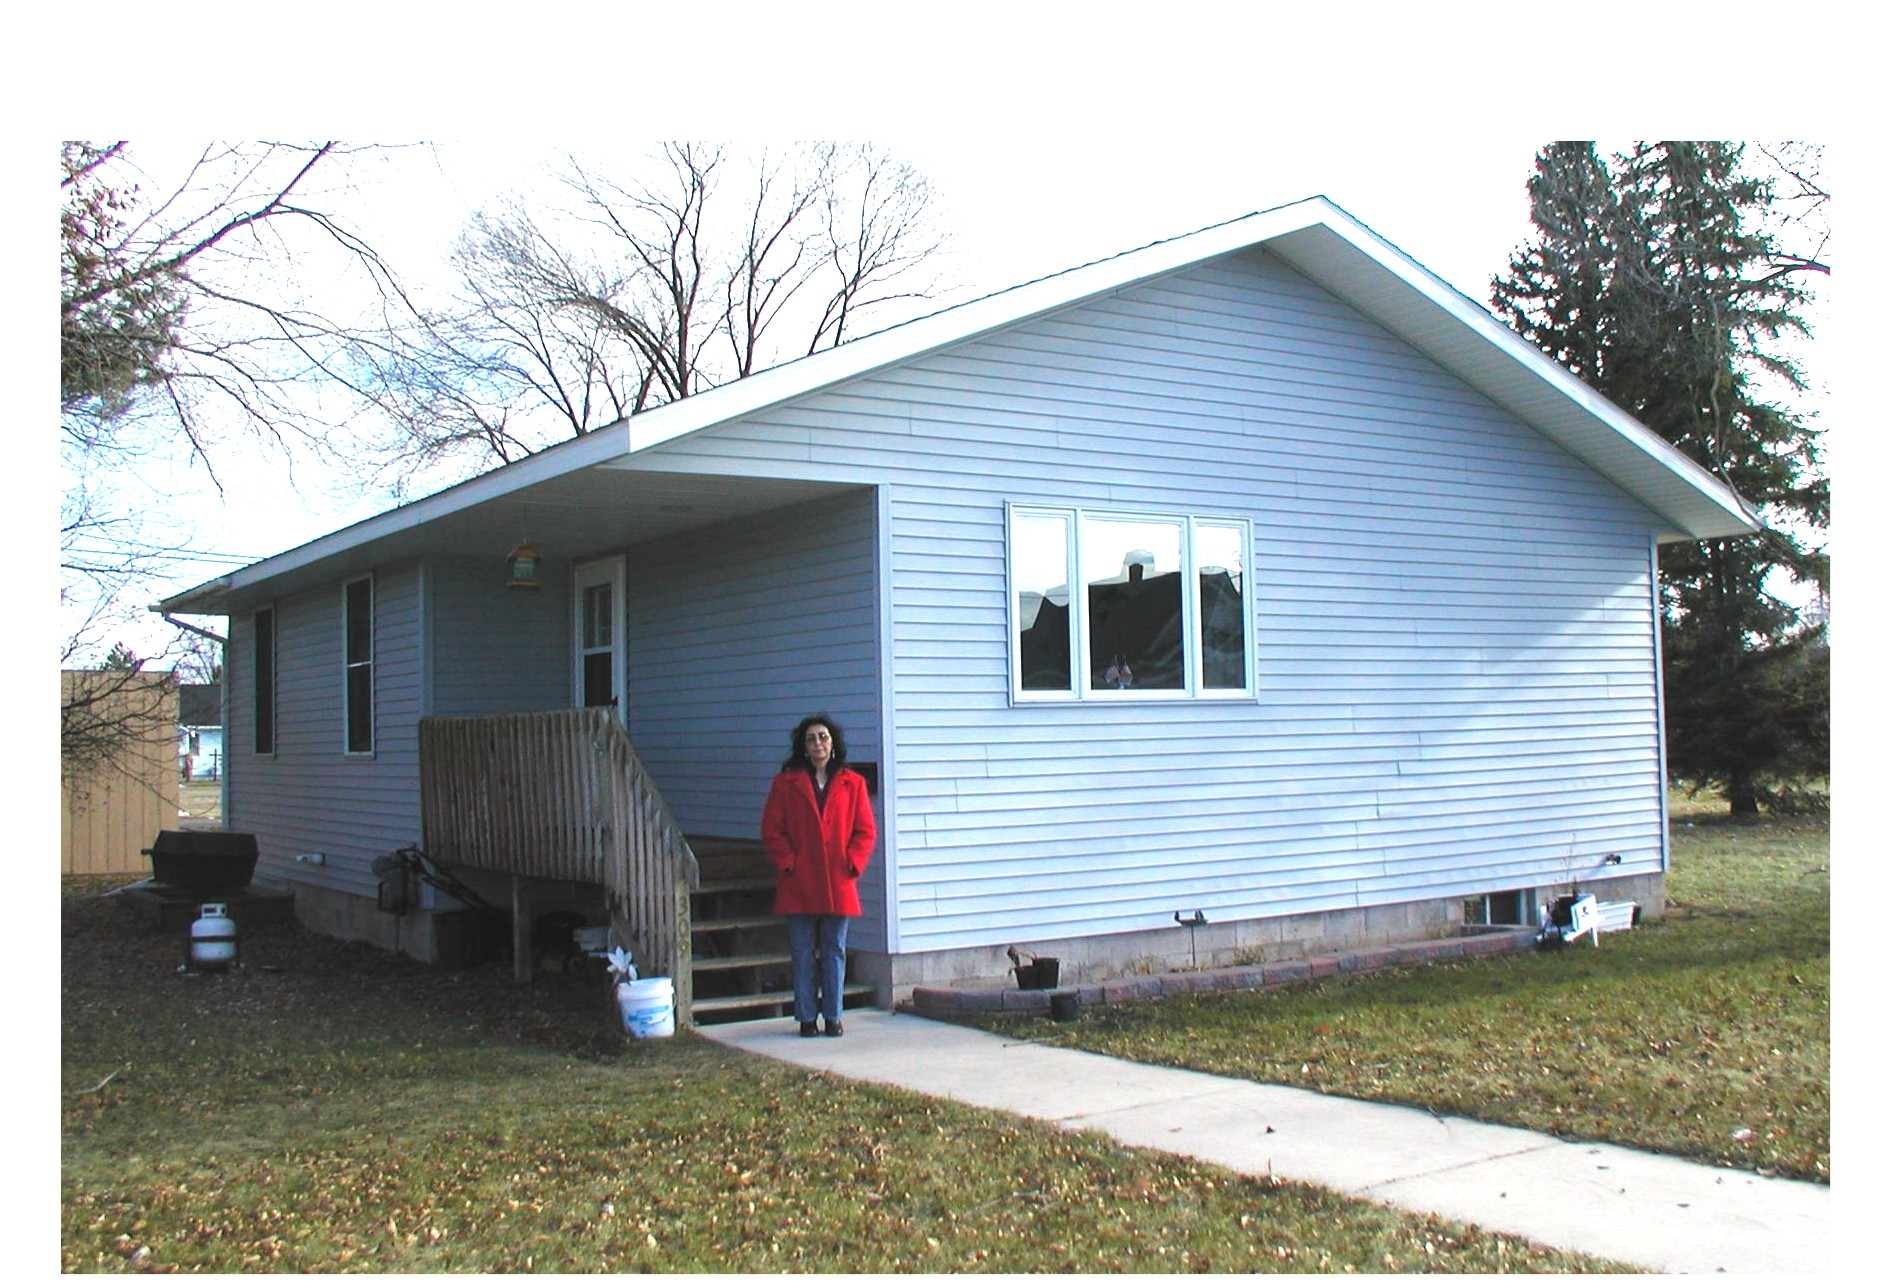
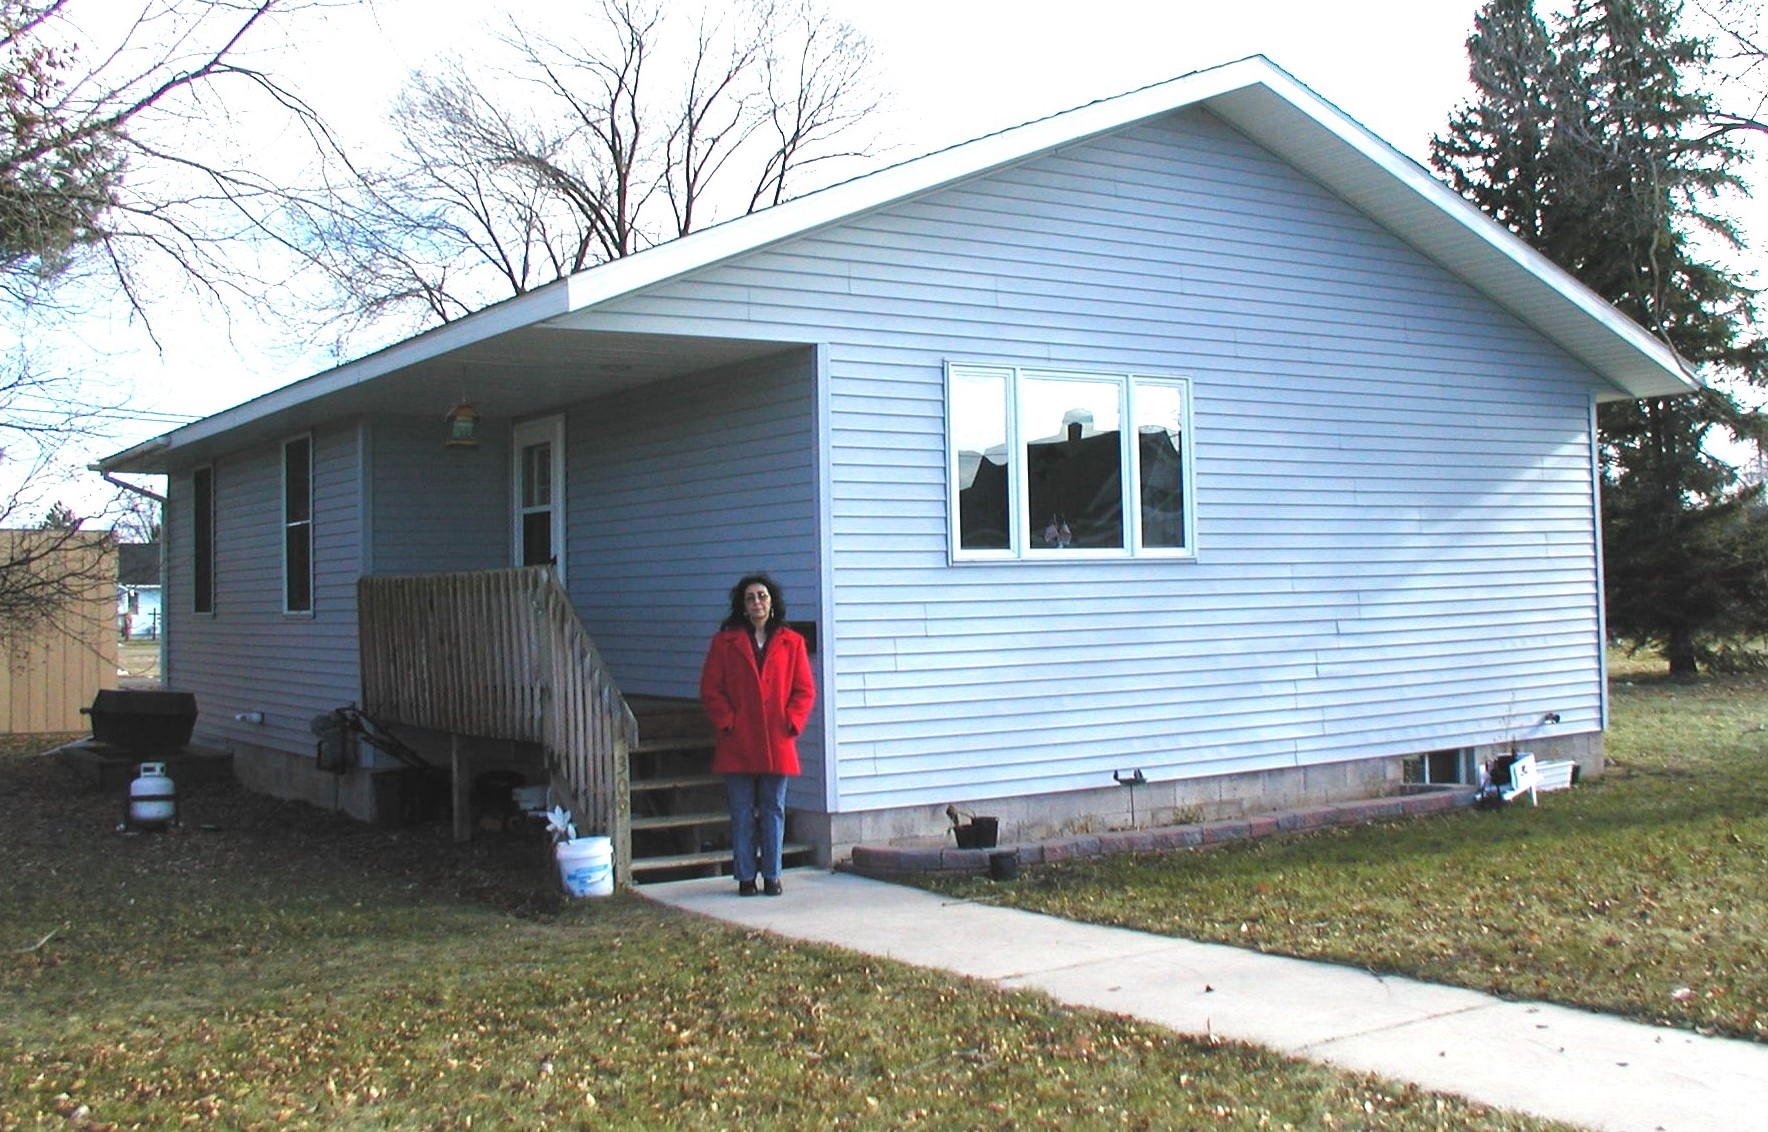
Updated House Photos
Major update to house photos page. Reduced file sizes for faster loading, and mostly standardized photo size for easier viewing

diff --git a/house_photos.php b/house_photos.php
@@ -13,7 +13,7 @@
             <p>900 East H St<br>Iron Mountain MI<br>Built 1994</p>
         </div>-->
         <div class="grid-element">
-            <img src="house_images/2 Balsam-Jenson.jpg" loading="lazy">
+            <img src="house_images/2 Balsam-Jenson Resized.jpg" loading="lazy">
             <p>504 Maplewood Court<br>Kingsford MI<br>Built 1996</p>
         </div>
         <!--<div class="grid-element">
@@ -29,23 +29,23 @@
             <p>800 W Ludington<br>Iron Mountain MI<br>Built 2000</p>
         </div>-->
         <div class="grid-element">
-            <img src="house_images/6 Breen-Vasquez.jpg" loading="lazy">
+            <img src="house_images/6 Breen-Vasquez Resized.jpg" loading="lazy">
             <p>601 Breen<br>Kingsford MI<br>Built 2002</p>
         </div>
         <div class="grid-element">
-            <img src="house_images/7 Breen-Wolf.jpg" loading="lazy">
+            <img src="house_images/7 Breen-Wolf Resized.jpg" loading="lazy">
             <p>605 Breen<br>Kingsford MI<br>Built 2003</p>
         </div>
         <div class="grid-element">
-            <img src="house_images/8 Breen-LaValley.jpg" loading="lazy">
+            <img src="house_images/8 Breen-LaValley Resized.jpg" loading="lazy">
             <p>621 Breen<br>Kingsford MI<br>Built 2003</p>
         </div>
         <div class="grid-element">
-            <img src="house_images/9 Roseland-Osborne.jpg" loading="lazy">
+            <img src="house_images/9 Roseland-Osborne Resized.jpg" loading="lazy">
             <p>329 Roseland St<br>Kingsford MI<br>Built 2004</p>
         </div>
         <div class="grid-element">
-            <img src="house_images/10 Quincy-Hiltonen.jpg" loading="lazy">
+            <img src="house_images/10 Quincy-Hiltonen Resized.jpg" loading="lazy">
             <p>233 Quincy<br>Kingsford MI<br>Built 2004</p>
         </div>
         <div class="grid-element">
@@ -53,15 +53,15 @@
             <p>701 Henford Ave<br>Kingsford MI<br>Built 2005</p>
         </div>
         <div class="grid-element">
-            <img src="house_images/12 Menominee-Lidbeck.jpg" loading="lazy">
+            <img src="house_images/12 Menominee-Lidbeck Resized.jpg" loading="lazy">
             <p>1046 Cox St<br>Quinnesec MI<br>Built 2005</p>
         </div>
-        <div class="grid-element">'
-            <img src="house_images/13 Mullen Krieg.jpg" loading="lazy">
+        <div class="grid-element">
+            <img src="house_images/13 Mullen Krieg Resized.jpg" loading="lazy">
             <p>1030 Mullen St<br>Quinnesec MI<br>Built 2005</p>
         </div>
         <div class="grid-element">
-            <img src="house_images/14 Wells-Wonch.jpg" loading="lazy">
+            <img src="house_images/14 Wells-Wonch Resized.jpg" loading="lazy">
             <p>4430 Wells St<br>Quinnesec MI<br>Built 2006</p>
         </div>
         <div class="grid-element">
@@ -73,27 +73,27 @@
             <p>118 Central Ave<br>Norway MI<br>Built 2006</p>
         </div>
         <div class="grid-element">
-            <img src="house_images/17 Marpe-Hudson.jpg" loading="lazy">
+            <img src="house_images/17 Marpe-Hudson Resized.jpg" loading="lazy">
             <p>3875 Marpe St<br>Quinnesec MI<br>Built 2007</p>
         </div>
         <div class="grid-element">
-            <img src="house_images/18 7th St.-Fisher.jpg" loading="lazy">
+            <img src="house_images/18 7th St.-Fisher Resized.jpg" loading="lazy">
             <p>416 7th St<br>Iron Mountain MI<br>Built 2007</p>
         </div>
         <div class="grid-element">
-            <img src="house_images/19 5th St.-Zellner.jpg" loading="lazy">
+            <img src="house_images/19 5th St.-Zellner Resized.jpg" loading="lazy">
             <p>620 5th St<br>Iron Mountain MI<br>Built 2008</p>
         </div>
         <div class="grid-element">
-            <img src="house_images/20 Aragon-Peterson.jpg" loading="lazy">
+            <img src="house_images/20 Aragon-Peterson Resized.jpg" loading="lazy">
             <p>510 Aragon St<br>Iron Mountain MI<br>Built 2008</p>
         </div>
         <div class="grid-element">
-            <img src="house_images/21-Main - Starnes.jpg" loading="lazy">
+            <img src="house_images/21-Main - Starnes Resized.jpg" loading="lazy">
             <p>W4940 Main St<br>Vulcan MI<br>Built 2009</p>
         </div>
         <div class="grid-element">
-            <img src="house_images/22 Main Peterson.jpg" loading="lazy">
+            <img src="house_images/22 Main Peterson Resized.jpg" loading="lazy">
             <p>W4936 Main St<br>Vulcan MI<br>Built 2009</p>
         </div>
         <div class="grid-element">
@@ -101,35 +101,35 @@
             <p>216 Parkway<br>Kingsford MI<br>Built 2009</p>
         </div>
         <div class="grid-element">
-            <img src="house_images/24 Vulcan Collins.jpg" loading="lazy">
+            <img src="house_images/24 Vulcan Collins Resized.jpg" loading="lazy">
             <p>415 Vulcan St<br>Iron Mountain MI<br>Built 2009</p>
         </div>
         <div class="grid-element">
-            <img src="house_images/25 Cayuga-Nowicki.jpg" loading="lazy">
+            <img src="house_images/25 Cayuga-Nowicki Resized.jpg" loading="lazy">
             <p>626 Cayuga St<br>Iron River MI<br>Built 2010</p>
         </div>
         <div class="grid-element">
-            <img src="house_images/26 Mullen-Langston.jpg" loading="lazy">
+            <img src="house_images/26 Mullen-Langston Resized.jpg" loading="lazy">
             <p>925 Mullen St<br>Quinnesec MI<br>Built 2010</p>
         </div>
         <div class="grid-element">
-            <img src="house_images/27 Brown-Hirth.jpg" loading="lazy">
+            <img src="house_images/27 Brown-Hirth Resized.jpg" loading="lazy">
             <p>701 W Brown St<br>Iron Mountain MI<br>Built 2010</p>
         </div>
         <div class="grid-element">
-            <img src="house_images/28 W.A.-Jokinen.jpg" loading="lazy">
+            <img src="house_images/28 W.A.-Jokinen Resized.jpg" loading="lazy">
             <p>600 W A St<br>Iron Mountain MI<br>Built 2011</p>
         </div>
         <div class="grid-element">
-            <img src="house_images/29 Sagola-Ozzello.jpg" loading="lazy">
+            <img src="house_images/29 Sagola-Ozzello Resized.jpg" loading="lazy">
             <p>817 E Sagola<br>Kingsford MI<br>Built 2011</p>
         </div>
         <div class="grid-element">
-            <img src="house_images/30 Pisoni-Hamel.jpg" loading="lazy">
+            <img src="house_images/30 Pisoni-Hamel Resized.jpg" loading="lazy">
             <p>1801 Pisoni St<br>Iron River MI<br>Built 2011</p>
         </div>
         <div class="grid-element">
-            <img src="house_images/31 Hemlock-Nanninga.jpg" loading="lazy">
+            <img src="house_images/31 Hemlock-Nanninga Resized.jpg" loading="lazy">
             <p>240 Hemlock St<br>Kingsford MI<br>Built 2011</p>
         </div>
         <div class="grid-element">
@@ -137,7 +137,7 @@
             <p>122 Central Ave<br>Norway MI<br>Built 2011</p>
         </div>
         <div class="grid-element">
-            <img src="house_images/33 Schuirmann Cty Rd N.jpg" loading="lazy">
+            <img src="house_images/33 Schuirmann Cty Rd N Resized.jpg" loading="lazy">
             <p>N1356 County Rd. N<br>Aurora WI<br>Built 2011</p>
         </div>
         <div class="grid-element">
@@ -145,15 +145,15 @@
             <p>229 Withworth St<br>Kingsford MI<br>Built 2011</p>
         </div>
         <div class="grid-element">
-            <img src="house_images/35 Central-Opolka.jpg" loading="lazy">
+            <img src="house_images/35 Central-Opolka Resized.jpg" loading="lazy">
             <p>126 Central Ave<br>Norway MI<br>Built 2012</p>
         </div>
         <div class="grid-element">
-            <img src="house_images/36 Central-Haferkorn.jpg" loading="lazy">
+            <img src="house_images/36 Central-Haferkorn Resized.jpg" loading="lazy">
             <p>124 Central Ave<br>Norway MI<br>Built 2012</p>
         </div>
         <div class="grid-element">
-            <img src="house_images/37 Adams Conibear.jpg" loading="lazy">
+            <img src="house_images/37 Adams Conibear Resized.jpg" loading="lazy">
             <p>508 Adams St<br>Crystal Falls MI<br>Built 2012</p>
         </div>
         <div class="grid-element">
@@ -169,43 +169,43 @@
             <p>916 Coolidge St<br>Kingsford MI<br>Built 2013</p>
         </div>
         <div class="grid-element">
-            <img src="house_images/41 Cayuga Christianson.jpg" loading="lazy">
+            <img src="house_images/41 Cayuga Christianson Resized.jpg" loading="lazy">
             <p>508 W Cayuga St<br>Iron River MI<br>Built 2013</p>
         </div>
         <div class="grid-element">
-            <img src="house_images/42 West D Goad.jpg" loading="lazy">
+            <img src="house_images/42 West D Goad Resized.jpg" loading="lazy">
             <p>402 West D St<br>Iron Mountain MI<br>Built 2014</p>
         </div>
         <div class="grid-element">
-            <img src="house_images/43 West D Glaser.jpg" loading="lazy">
+            <img src="house_images/43 West D Glaser Resized.jpg" loading="lazy">
             <p>400 West D St<br>Iron Mountain MI<br>Built 2014</p>
         </div>
         <div class="grid-element">
-            <img src="house_images/44 West B.jpg" loading="lazy">
+            <img src="house_images/44 West B Resized.jpg" loading="lazy">
             <p>801 West B St<br>Iron Mountain MI<br>Built 2015</p>
         </div>
         <div class="grid-element">
-            <img src="house_images/45 Coolidge-Roberts.jpg" loading="lazy">
+            <img src="house_images/45 Coolidge-Roberts Resized.jpg" loading="lazy">
             <p>918 Coolidge St<br>Kingsford MI<br>Built 2015</p>
         </div>
         <div class="grid-element">
-            <img src="house_images/46 Balkum.jpg" loading="lazy">
+            <img src="house_images/46 Balkum Resized.jpg" loading="lazy">
             <p>1010 Adams St<br>Quinnesec MI<br>Built 2016</p>
         </div>
         <div class="grid-element">
-            <img src="house_images/47 W656.jpeg" loading="lazy">
+            <img src="house_images/47 W4656 Resized.jpg" loading="lazy">
             <p>W4656 Main St<br>Vulcan MI<br>Built 2016</p>
         </div>
         <div class="grid-element">
-            <img src="house_images/48 1005 Adams done.jpg" loading="lazy">
+            <img src="house_images/48 1005 Adams done Resized.jpg" loading="lazy">
             <p>1005 Adams St<br>Quinnesec MI<br>Built 2017</p>
         </div>
         <div class="grid-element">
-            <img src="house_images/49 139 W Lincoln.jpg" loading="lazy">
+            <img src="house_images/49 139 W Lincoln Resized.jpg" loading="lazy">
             <p>139 W Lincoln St<br>Iron Mountain MI<br>Built 2020</p>
         </div>
         <div class="grid-element">
-            <img src="house_images/50 112 E Sagola.jpg" loading="lazy">
+            <img src="house_images/50 112 E Sagola Resized.jpg" loading="lazy">
             <p>112 Sagola Ave<br>Kingsford MI<br>Built 2022</p>
         </div>
         <!--<div class="grid-element">

diff --git a/corporate_sponsors.php b/corporate_sponsors.php
@@ -4,8 +4,7 @@
 <?php include 'menu.php';?>
 
 <main class="content">
-    <h1 style="text-align: center;">Funding Sponsors</h1>
-    <p style="text-align: center; font-size: 16px;">A big thank you to our funding sponsors</p>
+    <h1 style="text-align: center;">Corporate Sponsors</h1>
     <div class="corporate-sponsor-container">    
         <div class="corporate-sponsor">
             <img src="corporate_sponsor_images/consumers energy.png">
@@ -16,13 +15,7 @@
         <div class="corporate-sponsor">
             <img src="corporate_sponsor_images/homedepotfoundation.png">
         </div>
-        <div class="corporate-sponsor">
-            <img src="corporate_sponsor_images/United-Way-logo.jpg" style="width: 50%;">
-        </div>
     </div>
-
-    <h1 style="text-align: center;">Material Sponsors</h1>
-    <p style="text-align: center; font-size: 16px;">Thank you to all of our building material sponsors.</p>
     <div class="corporate-sponsor-container">
         <div class="corporate-sponsor">
             <img src="corporate_sponsor_images/Whirlpool.png">
